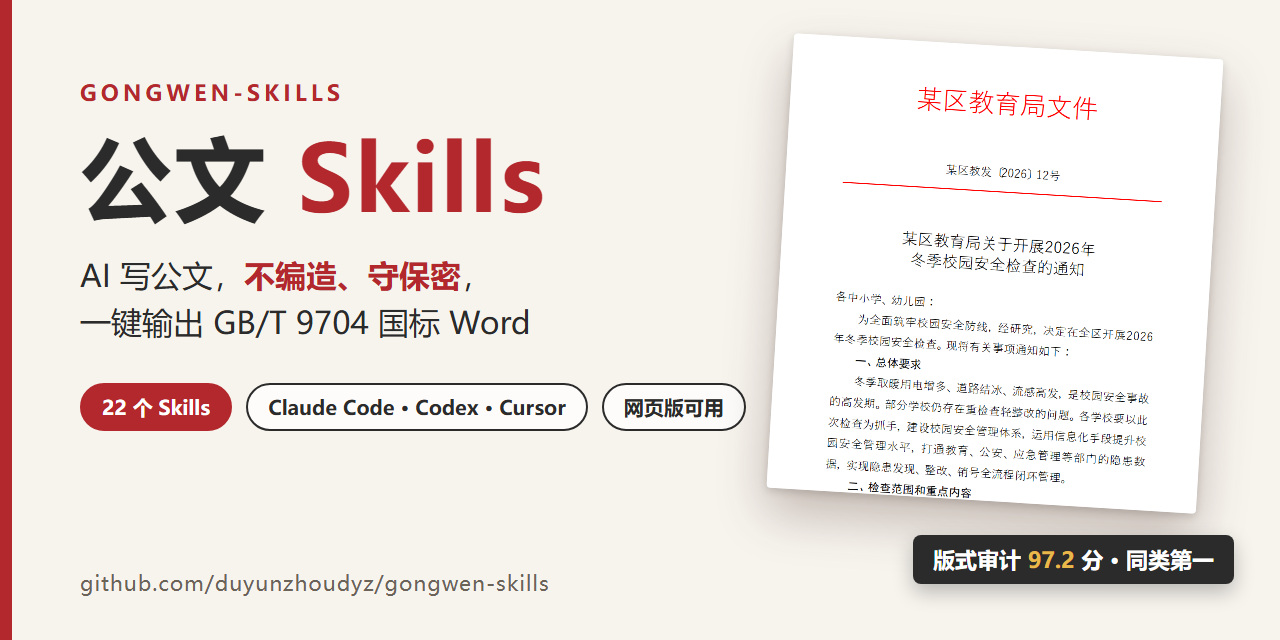
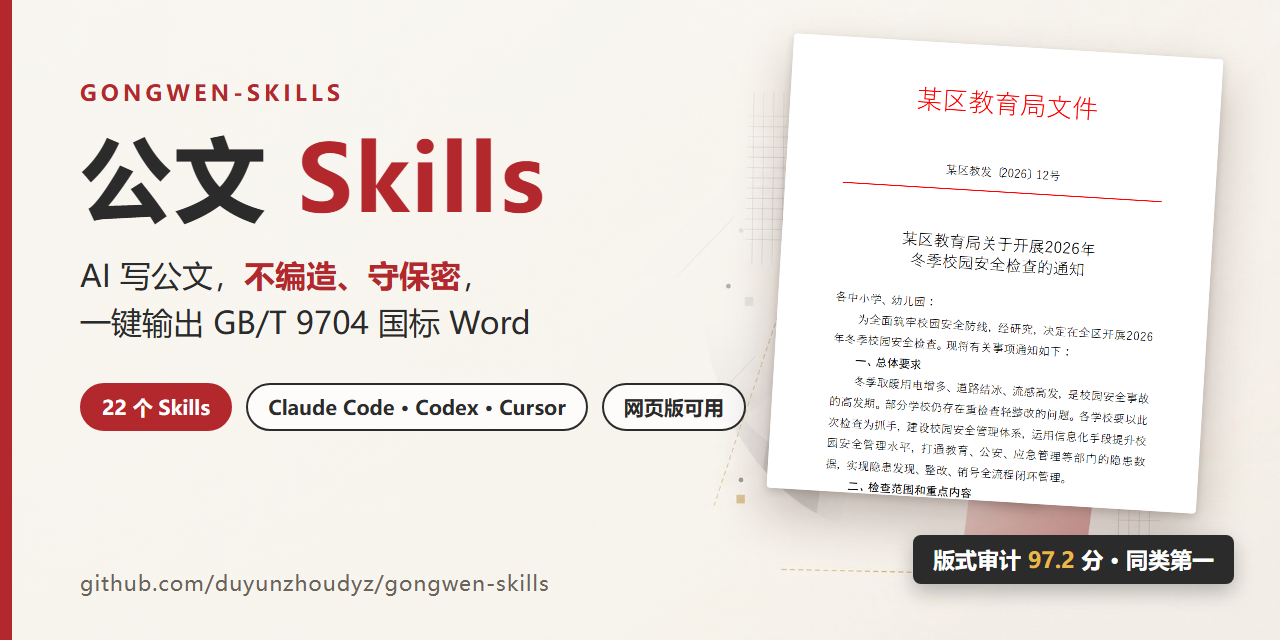
docs: Social preview 图合成 AI 生成的无字背景
背景图压缩为 1920 宽 JPEG 存于 docs/assets/src/bg.jpg，HTML 源文件同步引用。

Changed region(s): [[0.75, 0.7812, 0.875, 0.8438]]

diff --git a/docs/assets/src/social-preview.html b/docs/assets/src/social-preview.html
@@ -4,9 +4,9 @@
 *{margin:0;padding:0;box-sizing:border-box}
 html,body{width:1280px;height:640px;overflow:hidden}
 body{font-family:"Microsoft YaHei","PingFang SC","Noto Sans SC",sans-serif;background:#F7F4EE;color:#2B2B2B;position:relative}
-/* 如存在 bg.png（AI 生成的无字背景），铺在最底层 */
-.bg{position:absolute;inset:0;background:url("bg.png") center/cover no-repeat}
-.veil{position:absolute;inset:0;background:linear-gradient(90deg,rgba(247,244,238,.96) 0%,rgba(247,244,238,.88) 52%,rgba(247,244,238,.2) 100%)}
+/* 如存在 bg.jpg（AI 生成的无字背景），铺在最底层 */
+.bg{position:absolute;inset:0;background:url("bg.jpg") center/cover no-repeat}
+.veil{position:absolute;inset:0;background:linear-gradient(90deg,rgba(247,244,238,.85) 0%,rgba(247,244,238,.5) 50%,rgba(247,244,238,0) 75%)}
 .bar{position:absolute;left:0;top:0;width:12px;height:100%;background:#B3282D}
 .left{position:absolute;left:80px;top:78px;width:700px}
 .eyebrow{font-size:22px;letter-spacing:4px;color:#B3282D;font-weight:700}
